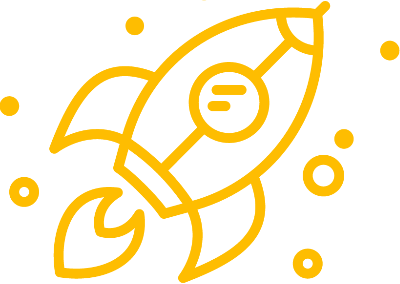
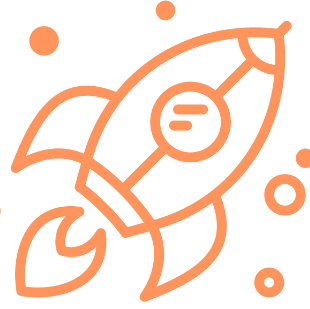
color test

diff --git a/RNC-Website/css/style.css b/RNC-Website/css/style.css
@@ -70,7 +70,7 @@ header .navbar ul li a{
 header .navbar ul li a::before{
 content:'';
 height: 3px;
-background-color: #66fcf1;
+background-color: #40e0d0;
 width: 0%;
 position:absolute;
 right:0px;
@@ -115,7 +115,7 @@ left:0px;
   flex:0 0 100%;
   max-width: 100%;
   padding-left: 35px;
-  border-left: 5px solid #66fcf1
+  border-left: 5px solid #40e0d0
 }
 
 
@@ -130,7 +130,7 @@ left:0px;
 
 .typewriter  h6{
   overflow: hidden; /* Ensures the content is not revealed until the animation */
-  border-right: .15em solid #66fcf1; /* The typwriter cursor */
+  border-right: .15em solid #40e0d0; /* The typwriter cursor */
   white-space: nowrap; /* Keeps the content on a single line */
   margin: 0 auto; /* Gives that scrolling effect as the typing happens */
   letter-spacing: .15em; /* Adjust as needed */
@@ -148,7 +148,7 @@ left:0px;
 /* The typewriter cursor effect */
 @keyframes blink-caret {
   from, to { border-color: transparent }
-  50% { border-color: #66fcf1 }
+  50% { border-color: #40e0d0 }
 }
 
 .home .homecontent .block h1{
@@ -175,7 +175,7 @@ left:0px;
 .home .homecontent .block .button1 a{
   border-radius: 4px; 
   color:#ffffff;
-  border: 1px solid #66fcf1;
+  border: 1px solid #40e0d0;
   padding: 12px 25px;
   text-decoration: none;
   display: inline-block;
@@ -187,7 +187,7 @@ left:0px;
   }
 
   .home .homecontent .block .button1 a:hover{
-  background-color: #66fcf1;
+  background-color: #40e0d0;
   color:#1f2833;
   }
 
@@ -213,7 +213,7 @@ content:'';
 left:0px;
 position:absolute;
 height: 2px;
-background-color: #febd01;
+background-color: #ff955c;
 bottom: 0px;
 right:30%;
 }
@@ -321,7 +321,7 @@ content:'';
 position:absolute;
 height: 3px;
 width: 50px;
-background-color: #febd01;
+background-color: #ff955c;
 left: 0px;
 top: 0px;
 }
@@ -356,7 +356,7 @@ top: 0px;
 }
 
 .quote .quotecontent span{
-  color:#66fcf1;
+  color:#40e0d0;
   line-height: 2;
 }
 
@@ -396,7 +396,7 @@ left: 30%;
   content:'';
   position:absolute;
   height: 5px;
-  background-color: #febd01;
+  background-color: #ff955c;
   bottom: 0px;
   width: 60px;
   left:0px;
@@ -419,7 +419,7 @@ left: 30%;
 }
 
 .work .workcontent .box .icon:hover{
-  background-color: #febd01;
+  background-color: #ff955c;
 }
 
 .work .workcontent .box .icon .fa{
@@ -467,7 +467,7 @@ left: 30%;
 .vedanth .v{
   font-size: 60px;
   -webkit-text-fill-color:transparent;
-  -webkit-text-stroke:2.5px #66fcf1;
+  -webkit-text-stroke:2.5px #40e0d0;
 }
 
 .vedanth .text{
@@ -486,7 +486,7 @@ left: 30%;
 .vedanth .button2 a{
   border-radius: 4px; 
   color:#ffffff;
-  border: 1px solid #66fcf1;
+  border: 1px solid #40e0d0;
   padding: 12px 25px;
   text-decoration: none;
   display: inline-block;
@@ -498,7 +498,7 @@ left: 30%;
   }
 
 .vedanth .button2 a:hover{
-  background-color: #66fcf1;
+  background-color: #40e0d0;
   color:#00153d;
   }
 
@@ -572,7 +572,7 @@ left: 30%;
   flex: 0 0 60%;
   max-width: 60%;
   padding-right: 20px;
-  border-right: 1px solid #66fcf1;
+  border-right: 1px solid #40e0d0;
 }
 
 .contact .left .inputbox {
@@ -587,13 +587,13 @@ left: 30%;
       }
 
 .contact .left .inputbox:focus{
-      box-shadow: 0 0 8px 2px #66fcf1;
+      box-shadow: 0 0 8px 2px #40e0d0;
       }
 
 .contact .left button{
   border-radius: 4px; 
   color:#ffffff;
-  border: 1px solid #66fcf1;
+  border: 1px solid #40e0d0;
   padding: 12px 25px;
   text-decoration: none;
   font-size: 15px;
@@ -616,7 +616,7 @@ left: 30%;
 
 .contact_icon .fa{
   font-size: 20px;
-  color: #66fcf1;
+  color: #40e0d0;
 }
   
 
@@ -658,7 +658,7 @@ footer .social a {
 }
 
 footer .social a:hover {
- color: #66fcf1;
+ color: #40e0d0;
 }
 
 .name{
@@ -674,7 +674,7 @@ footer .social a:hover {
 }
 
  .name i{
- color:  #66fcf1;	
+ color:  #40e0d0;	
 }
 
 
